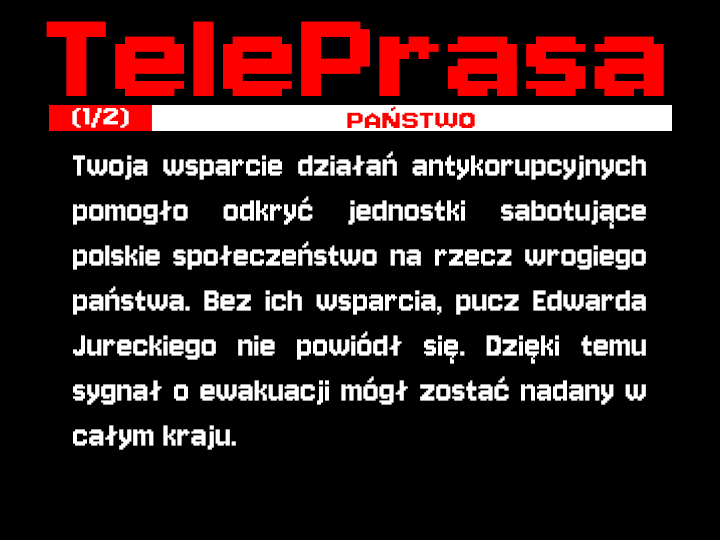
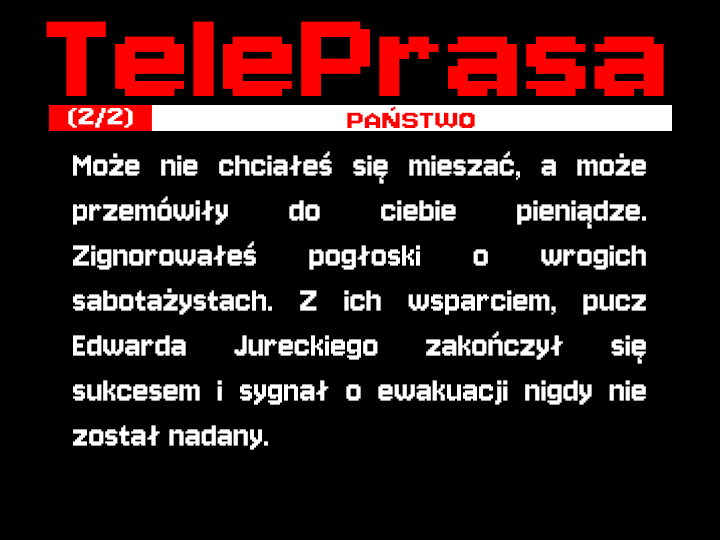
Fixed goverement ending

diff --git a/Assets/Scripts/MonoBehaviour/GameManager.cs b/Assets/Scripts/MonoBehaviour/GameManager.cs
@@ -336,7 +336,7 @@ public class GameManager : MonoBehaviour
         {
             case EndingMeter.Host:       return hostMeter       >= 0;
             case EndingMeter.Listener:   return listenerMeter   >= 0;
-            case EndingMeter.Government: return governmentMeter >= 0;
+            case EndingMeter.Government: return governmentMeter < 0;
             default:                     return true;
         }
     }
